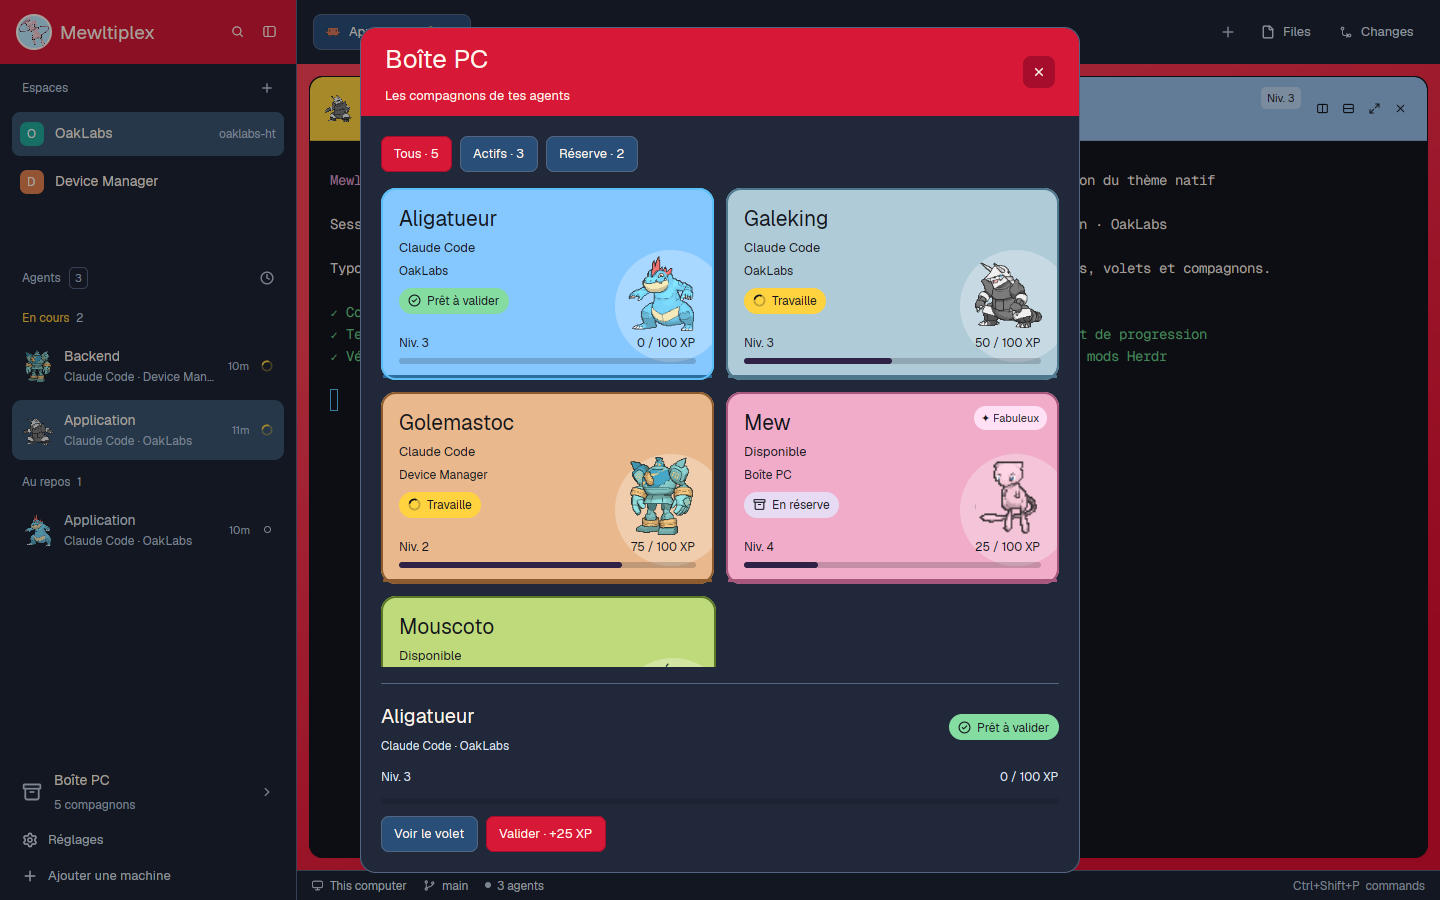
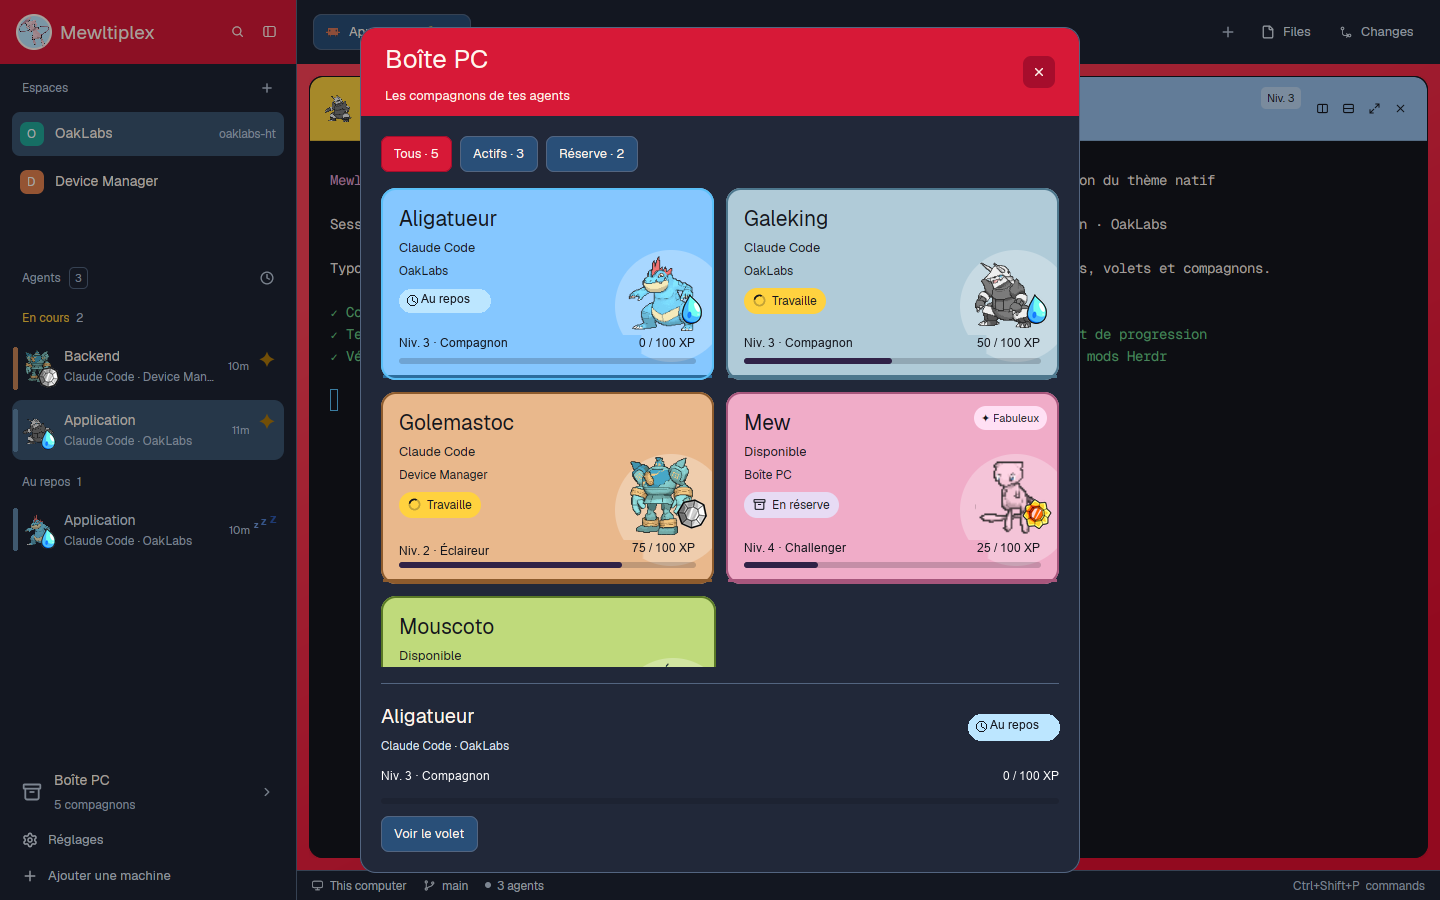
fix: actualiser les aperçus de Mewltiplex
Met à jour les trois images de démonstration avec les sprites, statuts et badges actuels, à partir de données fictives et d'un script local reproductible. Corrige le placement du badge dans la Boîte PC et actualise le README, la recette et le rapport.

diff --git a/mods/oaklabs-companions/box.js b/mods/oaklabs-companions/box.js
@@ -94,7 +94,7 @@ export class Box {
             .child(div().id(`pokedex-sprite-${companion.id}`).absolute().right(10).bottom(45).size(82)
             .flex().items_center().justify_center().tooltip(description).child(visual))
             .when(Boolean(stage), el => el.child(div().id(`milestone-card-${companion.id}`)
-            .absolute().right(7).bottom(39).size(30)
+            .absolute().right(7).bottom(56).size(30)
             .flex().items_center().justify_center()
             .tooltip(`${stage?.label} · palier atteint au niveau ${stage?.level}`)
             .child(image(`mods/oaklabs-companions/badges/${stage?.mark ?? "1"}.png`).size(30))))

diff --git a/src/oaklabs-companions/box.ts b/src/oaklabs-companions/box.ts
@@ -112,7 +112,7 @@ export class Box {
       .child(div().id(`pokedex-sprite-${companion.id}`).absolute().right(10).bottom(45).size(82)
         .flex().items_center().justify_center().tooltip(description).child(visual))
       .when(Boolean(stage), el => el.child(div().id(`milestone-card-${companion.id}`)
-        .absolute().right(7).bottom(39).size(30)
+        .absolute().right(7).bottom(56).size(30)
         .flex().items_center().justify_center()
         .tooltip(`${stage?.label} · palier atteint au niveau ${stage?.level}`)
         .child(image(`mods/oaklabs-companions/badges/${stage?.mark ?? "1"}.png`).size(30))))

diff --git a/scripts/refresh_previews.py b/scripts/refresh_previews.py
@@ -1,0 +1,131 @@
+"""Refresh fictitious demo previews locally from the last native Herdr captures.
+
+This overlays the UI changes made after cf92357 without reading the user's
+Herdr profile or sending any images to a service. Requires Pillow.
+"""
+
+from pathlib import Path
+from io import BytesIO
+import subprocess
+from PIL import Image, ImageDraw, ImageFont
+
+
+ROOT = Path(__file__).resolve().parent.parent
+BASE_COMMIT = "cf92357"  # Last native demo captures before the local visual update.
+FONTS = Path("C:/Windows/Fonts")
+REGULAR = lambda size: ImageFont.truetype(str(FONTS / "arial.ttf"), size)
+BOLD = lambda size: ImageFont.truetype(str(FONTS / "arialbd.ttf"), size)
+SYMBOL = lambda size: ImageFont.truetype(str(FONTS / "seguisym.ttf"), size)
+
+
+def sprite_from_header(image):
+    sprite = image.crop((322, 91, 356, 131)).convert("RGBA")
+    backdrop = image.getpixel((323, 92))[:3]
+    result = Image.new("RGBA", sprite.size)
+    for y in range(sprite.height):
+        for x in range(sprite.width):
+            r, g, b, _ = sprite.getpixel((x, y))
+            distance = max(abs(r - backdrop[0]), abs(g - backdrop[1]), abs(b - backdrop[2]))
+            alpha = max(0, min(255, round((distance - 12) * 255 / 45)))
+            if alpha:
+                result.putpixel((x, y), (r, g, b, alpha))
+    return result.resize((20, 24), Image.Resampling.LANCZOS)
+
+
+def badge(number, size):
+    image = Image.open(ROOT / f"mods/oaklabs-companions/badges/{number}.png").convert("RGBA")
+    return image.resize((size, size), Image.Resampling.LANCZOS)
+
+
+def dim(color):
+    return tuple(round(channel * 0.62) for channel in color)
+
+
+def sidebar(image, veiled=False):
+    draw = ImageDraw.Draw(image)
+    rows = [(338, "working", 1, "#D48C5C"), (400, "working", 2, "#668EB2"),
+            (499, "idle", 2, "#668EB2")]
+    for y, state, milestone, accent in rows:
+        background = image.getpixel((250, y + 24))[:3]
+        draw.rectangle((255, y + 13, 282, y + 47), fill=background)
+        line = tuple(bytes.fromhex(accent[1:])[i] for i in range(3))
+        if veiled:
+            line = dim(line)
+        draw.rounded_rectangle((13, y + 9, 17, y + 51), radius=2, fill=line)
+        overlay = badge(milestone, 21)
+        image.paste(overlay, (38, y + 29), overlay)
+        if state == "working":
+            color = (182, 125, 11) if not veiled else dim((182, 125, 11))
+            draw.text((258, y + 13), "✦", font=SYMBOL(22), fill=color, anchor="lt")
+        else:
+            blues = [(122, 166, 239), (86, 135, 220), (49, 94, 186)]
+            for x, offset, size, blue in zip((254, 261, 270), (24, 20, 17), (9, 11, 13), blues):
+                draw.text((x, y + offset), "z", font=BOLD(size), fill=dim(blue) if veiled else blue, anchor="lt")
+
+
+def tab(image, sprite, light):
+    draw = ImageDraw.Draw(image)
+    fill = image.getpixel((318, 26))[:3]
+    draw.rectangle((324, 19, 428, 45), fill=fill)
+    image.paste(sprite, (325, 19), sprite)
+    ink = (20, 22, 29) if light else (250, 252, 255)
+    draw.text((354, 24), "Application", font=REGULAR(13), fill=ink, anchor="lt")
+
+
+def workspace(name):
+    image = Image.open(BytesIO(subprocess.check_output(["git", "show", f"{BASE_COMMIT}:{name}"], cwd=ROOT))).convert("RGB")
+    sprite = sprite_from_header(image)
+    sidebar(image)
+    tab(image, sprite, name == "preview-paper.png")
+    image.save(ROOT / name, optimize=True)
+
+
+def card_caption(image, text, x, y, width, xp):
+    draw = ImageDraw.Draw(image)
+    for px in range(x, x + width + 1):
+        draw.line((px, y - 3, px, y + 14), fill=image.getpixel((px, y + 15))[:3])
+    draw.text((x, y), text, font=REGULAR(12), fill=(20, 22, 29), anchor="lt")
+    draw.text((x + width - 2, y), xp, font=REGULAR(12), fill=(20, 22, 29), anchor="rt")
+
+
+def box():
+    image = Image.open(BytesIO(subprocess.check_output(["git", "show", f"{BASE_COMMIT}:preview-box.png"], cwd=ROOT))).convert("RGB")
+    sidebar(image, veiled=True)
+    draw = ImageDraw.Draw(image)
+    # The old manual XP claim is gone; completed turns now credit XP automatically.
+    card_blue = image.getpixel((420, 339))[:3]
+    draw.rectangle((398, 287, 520, 315), fill=card_blue)
+    draw.rounded_rectangle((399, 289, 490, 312), radius=12, fill=(188, 230, 255))
+    draw.ellipse((407, 295, 417, 305), outline=(20, 22, 29), width=1)
+    draw.line((412, 300, 412, 297), fill=(20, 22, 29), width=1)
+    draw.line((412, 300, 415, 302), fill=(20, 22, 29), width=1)
+    draw.text((421, 294), "Au repos", font=REGULAR(12), fill=(20, 22, 29), anchor="lt")
+    surface = image.getpixel((700, 825))[:3]
+    draw.rectangle((482, 813, 613, 858), fill=surface)
+    draw.rectangle((941, 710, 1062, 746), fill=surface)
+    draw.rounded_rectangle((968, 714, 1059, 740), radius=13, fill=(188, 230, 255))
+    draw.ellipse((976, 721, 986, 731), outline=(20, 22, 29), width=1)
+    draw.line((981, 726, 981, 723), fill=(20, 22, 29), width=1)
+    draw.line((981, 726, 984, 728), fill=(20, 22, 29), width=1)
+    draw.text((990, 720), "Au repos", font=REGULAR(12), fill=(20, 22, 29), anchor="lt")
+
+    cards = [
+        (399, 338, 298, "Niv. 3 · Compagnon", 2, 677, 294, 0),
+        (744, 338, 298, "Niv. 3 · Compagnon", 2, 1022, 294, 50),
+        (399, 543, 298, "Niv. 2 · Éclaireur", 1, 677, 499, 75),
+        (744, 543, 298, "Niv. 4 · Challenger", 3, 1022, 499, 25),
+    ]
+    for x, y, width, title, mark, badge_x, badge_y, xp in cards:
+        card_caption(image, title, x, y, width, f"{xp} / 100 XP")
+        overlay = badge(mark, 30)
+        image.paste(overlay, (badge_x, badge_y), overlay)
+
+    draw.rectangle((380, 767, 1059, 786), fill=surface)
+    draw.text((381, 771), "Niv. 3 · Compagnon", font=REGULAR(12), fill=(255, 255, 255), anchor="lt")
+    draw.text((1059, 771), "0 / 100 XP", font=REGULAR(12), fill=(255, 255, 255), anchor="rt")
+    image.save(ROOT / "preview-box.png", optimize=True)
+
+
+for filename in ("preview.png", "preview-paper.png"):
+    workspace(filename)
+box()

diff --git a/README.md b/README.md
@@ -2,9 +2,9 @@
 
 Le thème reprend le style pop d’OakLabs avec une typographie Geist et des espacements réguliers. Mew apparaît dans la lentille du scanner, à côté du titre « Mewltiplex ». Le boîtier rouge et les en-têtes colorés encadrent les terminaux ; les cartes de la Boîte PC conservent les fonds par type, le cercle translucide et le bord ombré des tuiles du Pokédex. Herdr applique la variante claire crème ou la variante sombre ardoise selon son réglage d’apparence.
 
-![Mewltiplex en mode sombre dans Herdr App](preview.png)
+![Aperçu de Mewltiplex en mode sombre](preview.png)
 
-[Voir le mode clair](preview-paper.png). Les deux captures montrent une session de démonstration dans Herdr App.
+[Voir le mode clair](preview-paper.png). Les aperçus utilisent des données fictives. Ils ont été actualisés localement à partir de captures de Herdr App pour montrer les sprites dans les onglets, les statuts et les badges de palier.
 
 ## Installation
 
@@ -57,7 +57,7 @@ Remplacez le chemin par celui de votre dépôt. Le script met à jour le thème 
 
 Cliquez sur Mew, dans la lentille de l’en-tête, pour ouvrir la Boîte PC. Chaque agent qui démarre dans un volet reçoit un Pokémon tiré au sort parmi les 1 025 espèces du Pokédex. Son sprite apparaît aussi dans la liste Agents et dans l’en-tête de son volet.
 
-Le raccourci **Boîte PC**, au bas de la barre latérale, ouvre aussi la collection. Les cartes utilisent des noms de 21 px, des informations secondaires de 12–13 px, des badges d’état avec icônes et des badges de rareté nommés. [Voir la Boîte PC dans Herdr](preview-box.png).
+Le raccourci **Boîte PC**, au bas de la barre latérale, ouvre aussi la collection. Les cartes utilisent des noms de 21 px, des informations secondaires de 12–13 px, des badges d’état avec icônes et des badges de rareté nommés. [Voir l’aperçu de la Boîte PC](preview-box.png).
 
 - **Tous** affiche la collection complète à l’ouverture de la boîte. La grille défile pour parcourir tous les compagnons obtenus. Chaque carte indique son espace.
 - **Actifs** filtre les compagnons associés à un volet et affiche l’état de leurs agents. Sélectionnez une carte puis **Voir le volet** pour y accéder.
@@ -93,3 +93,5 @@ npm test
 ```
 
 `npm run build` vérifie les types puis régénère les fichiers JavaScript dans `mods/`. `npm test` lance aussi les tests d’attribution des compagnons et de progression. Incluez les fichiers JavaScript générés avec les modifications des sources.
+
+`scripts/refresh_previews.py` régénère localement les trois aperçus fictifs depuis les captures du commit `cf92357`. Il est prévu pour Windows avec Python, Pillow, Arial et Segoe UI Symbol ; il ne lit pas le profil Herdr de l’utilisateur.

diff --git a/RECIPE.md b/RECIPE.md
@@ -2,7 +2,9 @@
 
 Un habillage pop de la fenêtre principale de Herdr App, inspiré du scanner et des cartes du Pokédex d’OakLabs. La variante active suit le réglage d’apparence de Herdr.
 
-![Fenêtre Mewltiplex en mode sombre](preview.png)
+![Aperçu de la fenêtre Mewltiplex en mode sombre](preview.png)
+
+Les aperçus du dépôt utilisent des données fictives et ont été actualisés localement à partir de captures de Herdr App.
 
 ## Apparence
 
@@ -26,7 +28,7 @@ Les en-têtes de terminaux reprennent les couleurs du Pokédex et des voyants du
 - Les deux fichiers de `themes/` définissent les surfaces, les états et les 16 couleurs ANSI. Le cadre arrondi peint le fond uni des volets. Le réglage `terminal_opacity: 0` laisse apparaître les coins de ce cadre.
 - `mods/oaklabs-brand/main.js` adapte l’en-tête de `workspace-chrome`. Il utilise `layout.resize` pour le rail et `mod.open` pour le sélecteur, avec les icônes déjà fournies par Herdr.
 - `mods/oaklabs-pane/main.js` adapte `pane`. Les boutons affichés au survol appellent `pane.split`, `pane.zoom` et `pane.close` avec l’identifiant du volet cliqué.
-- `mods/oaklabs-companions/` adapte la liste Agents de Herdr et fournit le dialogue de la Boîte PC. Le mod suit les fins de tour signalées par Herdr pour proposer la validation des missions et partage les sprites avec les en-têtes des volets. Le champ `toast` du layout utilise ce même mod pour les notifications, qui affichent un sprite de 48 px à gauche du message et conservent l’action native.
+- `mods/oaklabs-companions/` adapte la liste Agents de Herdr et fournit le dialogue de la Boîte PC. Le mod crédite automatiquement les fins de tour signalées par Herdr et partage les sprites avec les en-têtes des volets et les onglets. Le champ `toast` du layout utilise ce même mod pour les notifications, qui affichent un sprite de 48 px à gauche du message et conservent l’action native.
 - `mods/oaklabs-spaces/` et `mods/oaklabs-tabs/` sont des clones de Spaces et Tabs de Herdr App 0.1.16. Les sources JavaScript amont sont conservées dans `src/` et recopiées par le build ; leur présentation est adaptée au thème.
 - Les fichiers JavaScript des mods sont générés depuis `src/` avec `npm run build`.
 

diff --git a/RAPPORT-STYLE.md b/RAPPORT-STYLE.md
@@ -43,9 +43,9 @@ Les filtres Tous, Actifs et Réserve, le défilement de toute la collection, les
 
 La vérification visuelle a été effectuée sous Linux. L’installateur PowerShell a été mis à jour mais n’a pas été exécuté sous Windows pendant cette intervention.
 
-## Captures natives
+## Aperçus
 
-Les captures montrent des sessions de démonstration dans le vrai moteur de rendu de Herdr, et non la maquette HTML.
+Les images d’origine montraient des sessions de démonstration dans le moteur de rendu de Herdr. Les aperçus du dépôt ont été actualisés localement le 24 novembre 2026 avec des données fictives pour représenter les sprites d’onglets, les statuts, les badges et la progression automatique. La validation manuelle décrite dans ce rapport du 19 novembre a depuis été supprimée.
 
 - [Espace de travail sombre](preview.png)
 - [Espace de travail clair](preview-paper.png)
